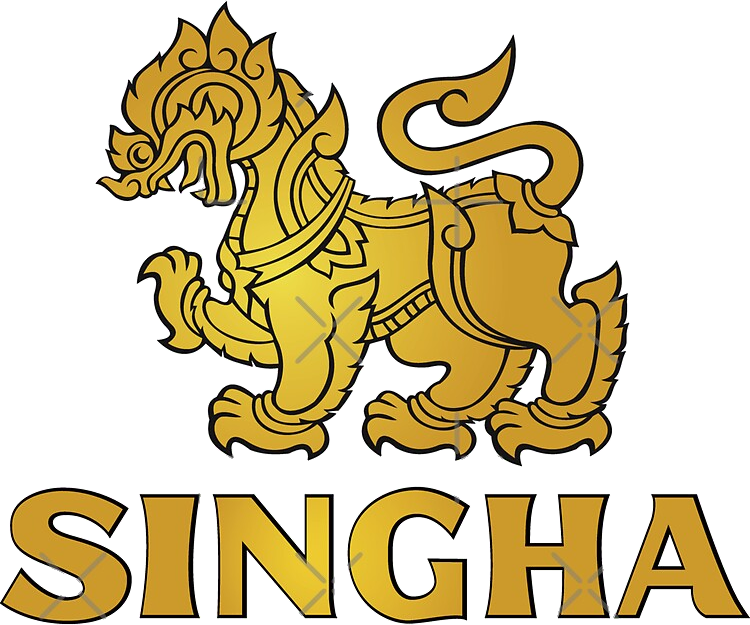
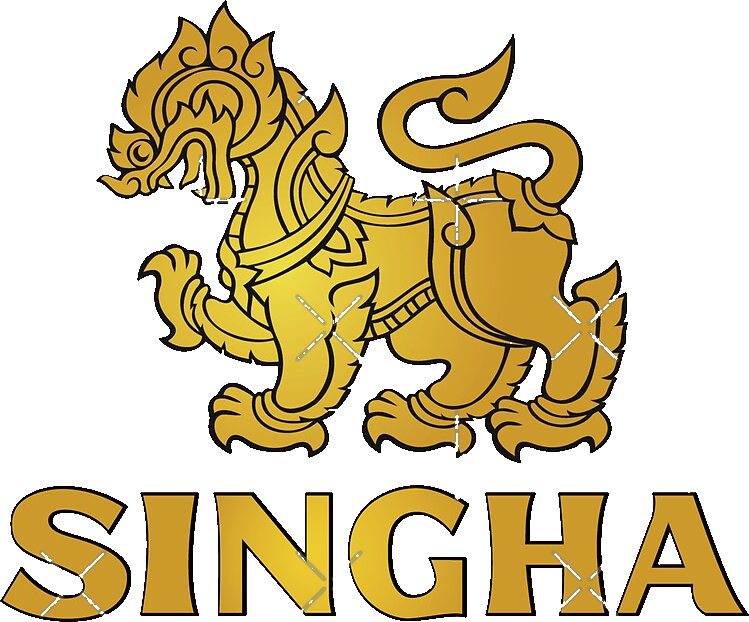
Make the lion emblem the hero of the front label
The lion emblem with its wordmark replaces the cube drawing as the main
visual on the front panel. The cut-out keeps the artwork by colour warmth
and dark outlines. The source image carries sticker cross marks over the
artwork, so faint marks remain; a clean official emblem file is needed.

diff --git a/rework/mockup/make_label.py b/rework/mockup/make_label.py
@@ -288,7 +288,14 @@ def build_front(tok, C, name):
     fx = round(MARGIN + (880 - bbox_w) / 2)
     fy = round(260 + (600 - bbox_h) / 2) - oy
     d.ellipse([fx + 40, fy + e - 10, fx + e + ox + 40, fy + e + 56], fill=C["off-white-deep"])
-    draw_cube(d, fx, fy, e, C)
+    if EMBLEM_PATH.exists():
+        # Lion emblem as the main hero of the front panel (user direction, 18 October 2026).
+        hero = Image.open(EMBLEM_PATH).convert("RGBA")
+        hh = 520
+        hw = round(hero.width * hh / hero.height)
+        p.img.paste(hero.resize((hw, hh), Image.LANCZOS), (round((MARGIN + 1000) / 2 - hw / 2), 560 - hh // 2), hero.resize((hw, hh), Image.LANCZOS))
+    else:
+        draw_cube(d, fx, fy, e, C)
 
     x0, max_w = 1080, 2280 - 1080
     for s1 in (104, 96, 88, 80, 72):
